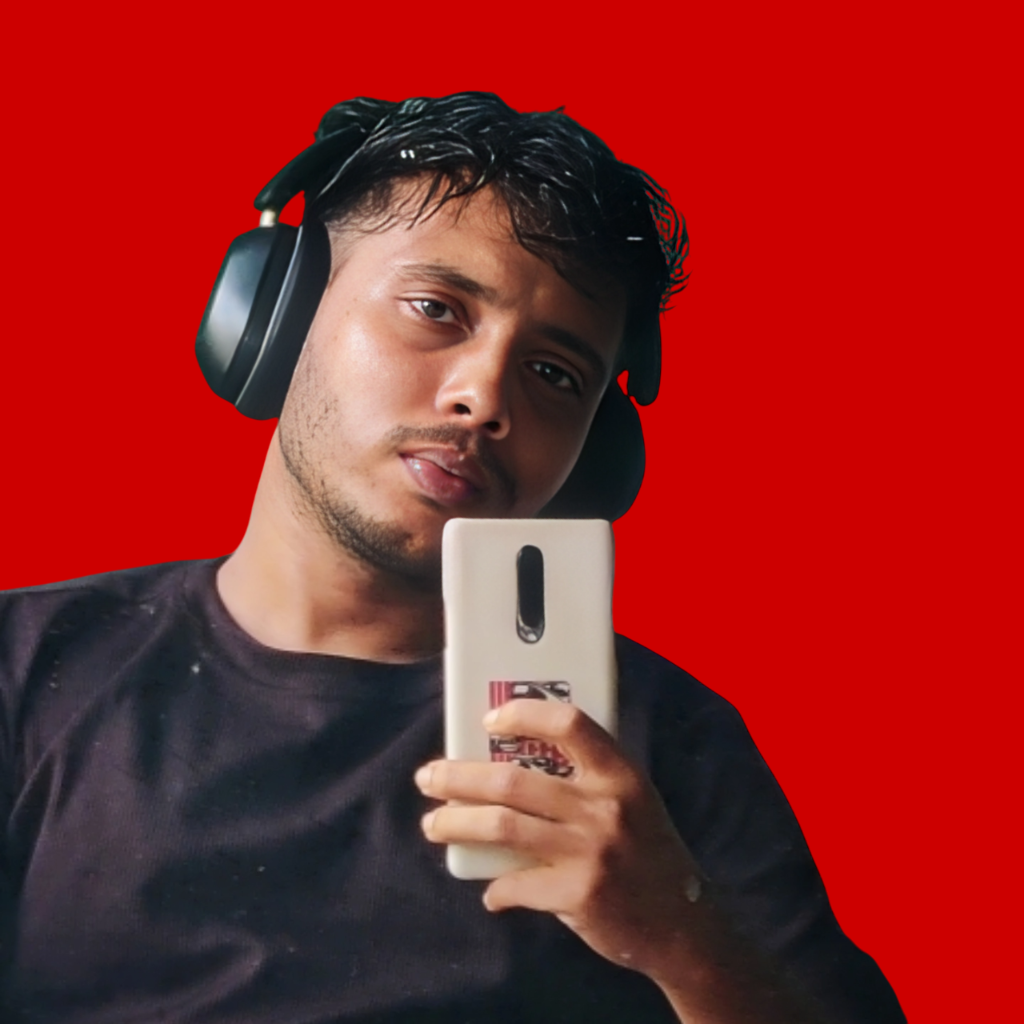
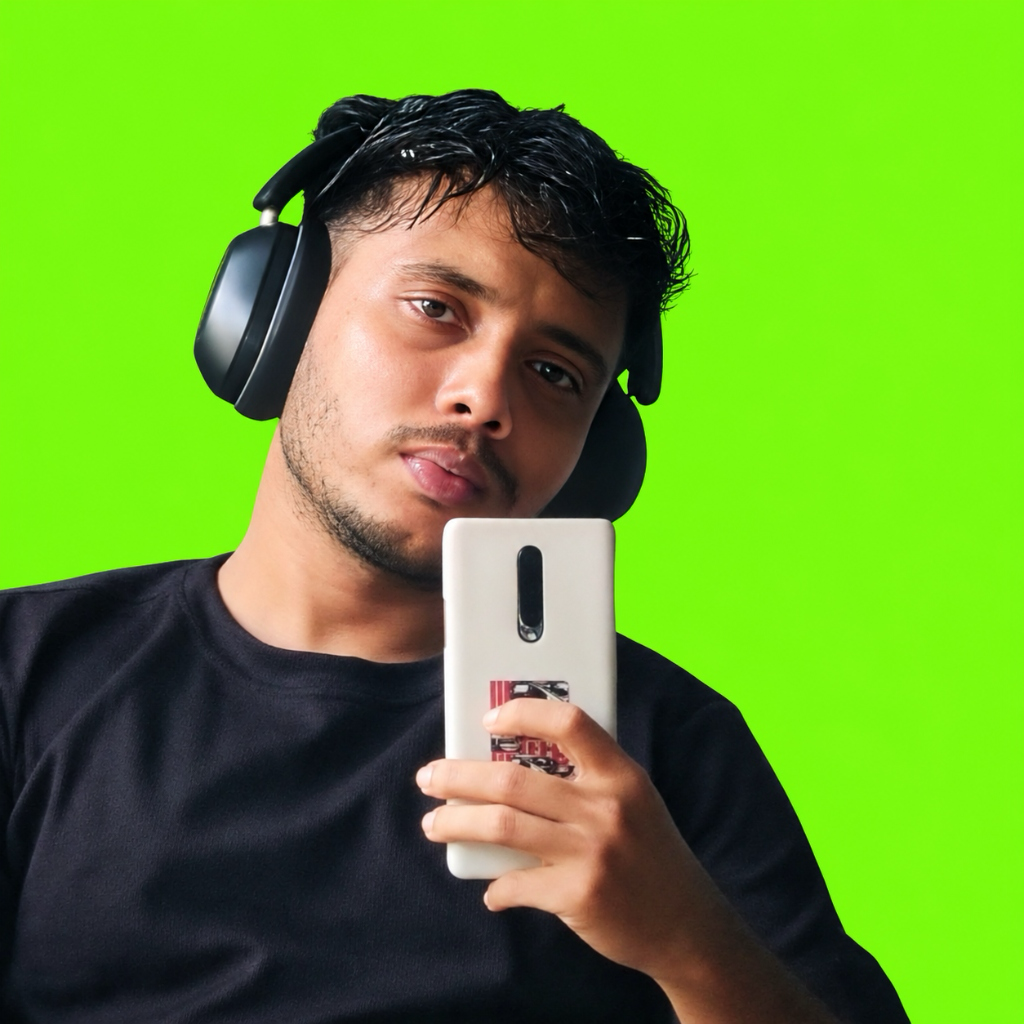
feat: update hero headline to Nithin T A with SENIOR FLUTTER DEVELOPER badge and update photo to green background

diff --git a/lib/features/portfolio/presentation/widgets/hero_section.dart b/lib/features/portfolio/presentation/widgets/hero_section.dart
@@ -158,13 +158,13 @@ class _HeroSectionState extends State<HeroSection>
         Wrap(
           crossAxisAlignment: WrapCrossAlignment.center,
           alignment: isMobile ? WrapAlignment.center : WrapAlignment.start,
-          spacing: 12,
-          runSpacing: 8,
+          spacing: 14,
+          runSpacing: 10,
           children: [
             Text(
-              'Hi, Nithin T A—',
+              'Nithin T A',
               style: AppTypography.displayExtraBold(
-                fontSize: isMobile ? 36 : 60,
+                fontSize: isMobile ? 36 : 58,
                 color: Colors.white,
                 letterSpacing: -1.0,
                 height: 1.1,
@@ -179,7 +179,7 @@ class _HeroSectionState extends State<HeroSection>
                   child: Container(
                     padding: EdgeInsets.symmetric(
                       horizontal: isMobile ? 12 : 18,
-                      vertical: isMobile ? 4 : 8,
+                      vertical: isMobile ? 5 : 8,
                     ),
                     decoration: BoxDecoration(
                       color: AppColors.neonGreen,
@@ -195,9 +195,9 @@ class _HeroSectionState extends State<HeroSection>
                       ],
                     ),
                     child: Text(
-                      'FLUTTER DEVELOPER',
+                      'SENIOR FLUTTER DEVELOPER',
                       style: AppTypography.displayBold(
-                        fontSize: isMobile ? 22 : 36,
+                        fontSize: isMobile ? 18 : 30,
                         color: Colors.black,
                         letterSpacing: 0.5,
                       ),

diff --git a/test/widget_test.dart b/test/widget_test.dart
@@ -16,7 +16,7 @@ void main() {
     await tester.pump();
     await tester.pump(const Duration(milliseconds: 500));
 
-    expect(find.text('FLUTTER DEVELOPER'), findsOneWidget);
+    expect(find.text('SENIOR FLUTTER DEVELOPER'), findsOneWidget);
     expect(find.text('NITHIN T A'), findsWidgets);
     expect(find.text('Bharat FX 🇮🇳'), findsOneWidget);
     expect(find.text('Petbae'), findsOneWidget);
